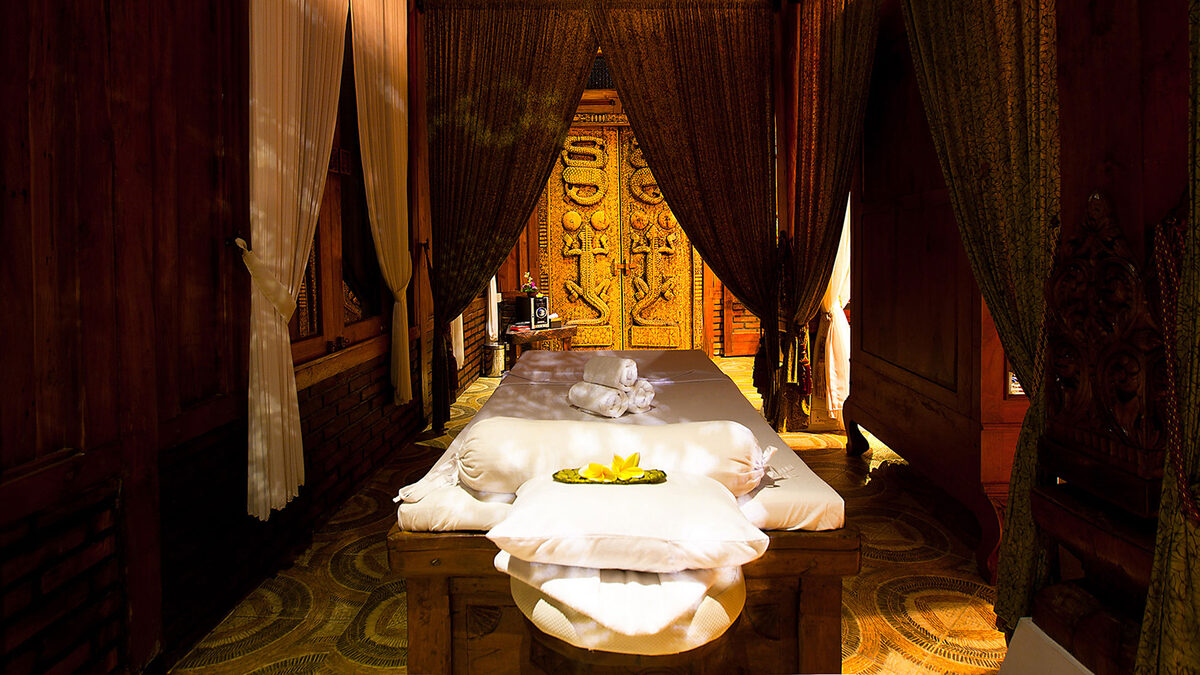
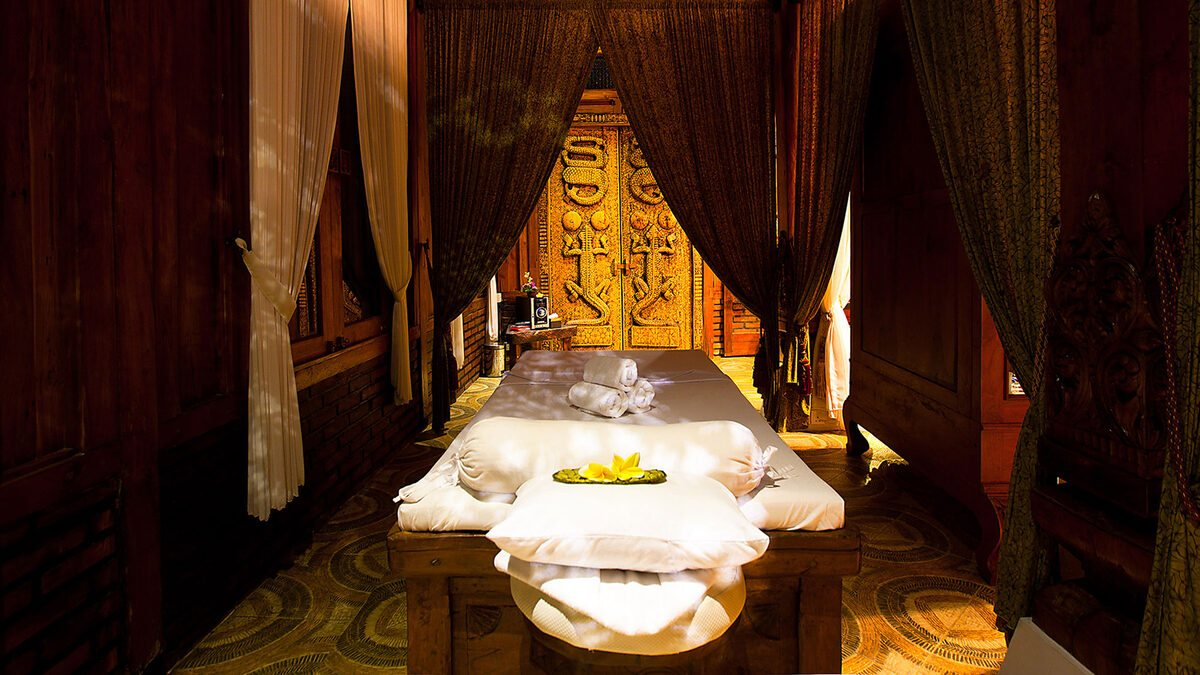
docs(site-002): inventory unresolved blog image rights and compress guide asset

diff --git a/docs/seo/images/credits.md b/docs/seo/images/credits.md
@@ -1,0 +1,41 @@
+# Blog image provenance register — site-002
+
+Inventory at 2026-11-01 (+08), based on all 33 tracked JPEGs in `public/images/blog/` on the image-ledger branch. One row per file; byte counts and SHA-256 reflect the branch version (the health-benefits `section-2.jpg` was recompressed here). The register does **not** demonstrate permission to publish. The source URL, creator/author and licence are UNKNOWN for every file. No licence or attribution is inferred from filenames, visual appearance, search results, image availability or EXIF absence. **Web availability is not a licence.**
+
+Existing live images remain unresolved rights risks pending source documentation or authorized replacements. Do not add newly scraped images via the local SEO machine. Before adding any new image, obtain a verifiable source URL or generation record, rights/terms, attribution requirements and operator review; update this register before release. AI-generated illustrative scenes must not imply they show the business's real staff, customers or venue. This is an evidence inventory, not a statement that these images are free to use.
+
+| Repository path | Bytes | SHA-256 | Source URL | Creator/author | Licence / permission |
+|---|---:|---|---|---|---|
[33 lines of base64/hex data omitted]

diff --git a/docs/seo/releases/2026-11-01.md b/docs/seo/releases/2026-11-01.md
@@ -11,8 +11,11 @@
 - Rollback: revert merge `f09add545d07f8301fbcbdc18a9cb3b3dd8c4c73` on a branch, rerun the full gate, PR/merge on exact SHA, verify Vercel status and both canonical URLs. Do not change published prices.
 - Not verified: Vercel API READY metadata, Google-selected search snippet, future CTR/rank/booking impact, GA4 conversion receipt, independent QA.
 
-## Guide: health-benefits-massage-therapy-bali (release pending)
+## Guide: health-benefits-massage-therapy-bali ([PR #46](https://github.com/ddandanell/MassageHomeKuta/pull/46))
 
-- Change log: 2026-11-01; URL https://www.homemassagekuta.com/blog/health-benefits-massage-therapy-bali; type new; cluster Recovery; publisher Kuta Massage SEO; redirects none (new slug).
-- Gate on branch: gate: PASS — 96 pages, 0 fails, 49 warnings, min words 271 (/areas/kuta).
-- Release proof, merge SHA, Vercel deployment and live checks will be recorded in shared/seo-machine/releases.md after merge; this pre-merge row does not claim deployment.
+- Change head `361405a4417e834be4f0fc6d7600ea518d8d96ee`; merge `a9e6edd91555489df7e441d133a22153471acb42` (2026-11-01 11:37:22 +08). GitHub Vercel status **success** at 11:37:38 +08 on merge SHA; deployment identifier `4LNjwueJArmVPTvQWcMfzxZPpGAG`. Direct Vercel API READY/project metadata **not verified**.
+- Branch gate: `gate: PASS — 96 pages, 0 fails, 49 warnings, min words 271 (/areas/kuta)`.
+- Canonical [guide](https://www.homemassagekuta.com/blog/health-benefits-massage-therapy-bali) returned HTTP 200 with exact new H1 and hero path in first-byte HTML. Hero, section-1 and section-2 returned HTTP 200 `image/jpeg`, respectively 88,209, 97,257 and 218,493 bytes at release. Direct visual proof and an image-rights review were **not completed** before the merge; independent QA requested retrospectively and not an authorization.
+- **Image provenance unverified:** all three guide JPEGs had no per-image source URL, creator or licence evidence. Site-wide review found **33 blog JPEGs in 11 folders** with no source/licence record. The subsequent register at [`docs/seo/images/credits.md`](../images/credits.md) identifies each file as UNKNOWN; it is not a rights clearance. Web availability is not a licence. Do not unpublish or claim the pictures are free to use. Halt the local web scraper; seek verified licences or reviewed replacements.
+- No registered site-002 task ID, no preview URL and protected-page register UNKNOWN. Do not construe these omissions as approvals. Publishing effect on indexing, rankings or bookings not measured.
+- Rollback, if independently warranted: revert merge `a9e6edd91555489df7e441d133a22153471acb42` through gated branch/PR and reverify production; do not silently remove the live post as a rights assumption.
